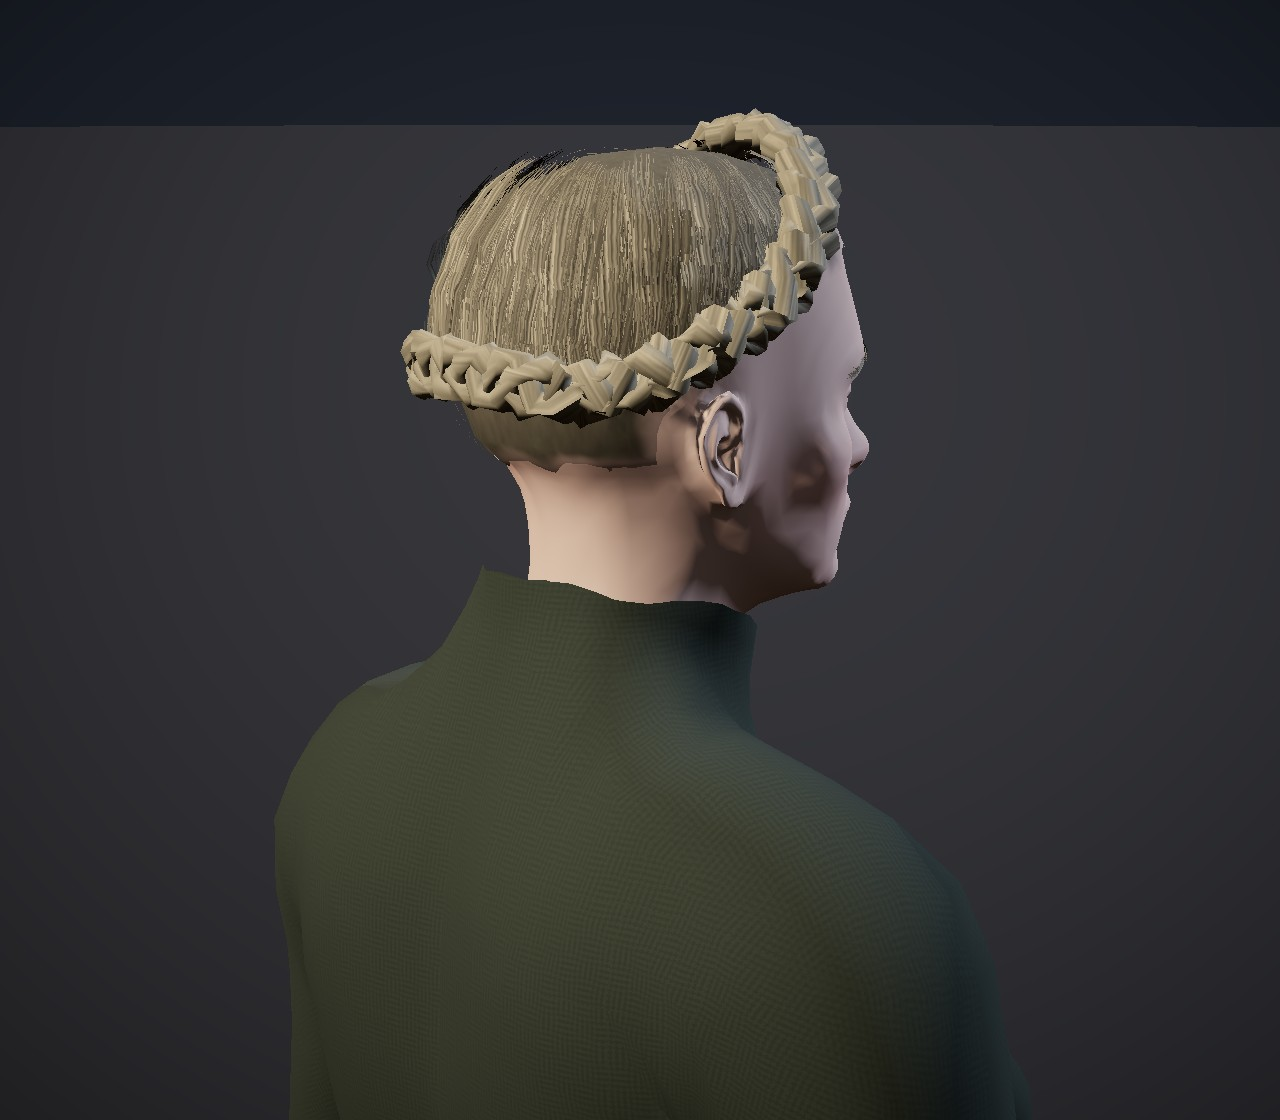
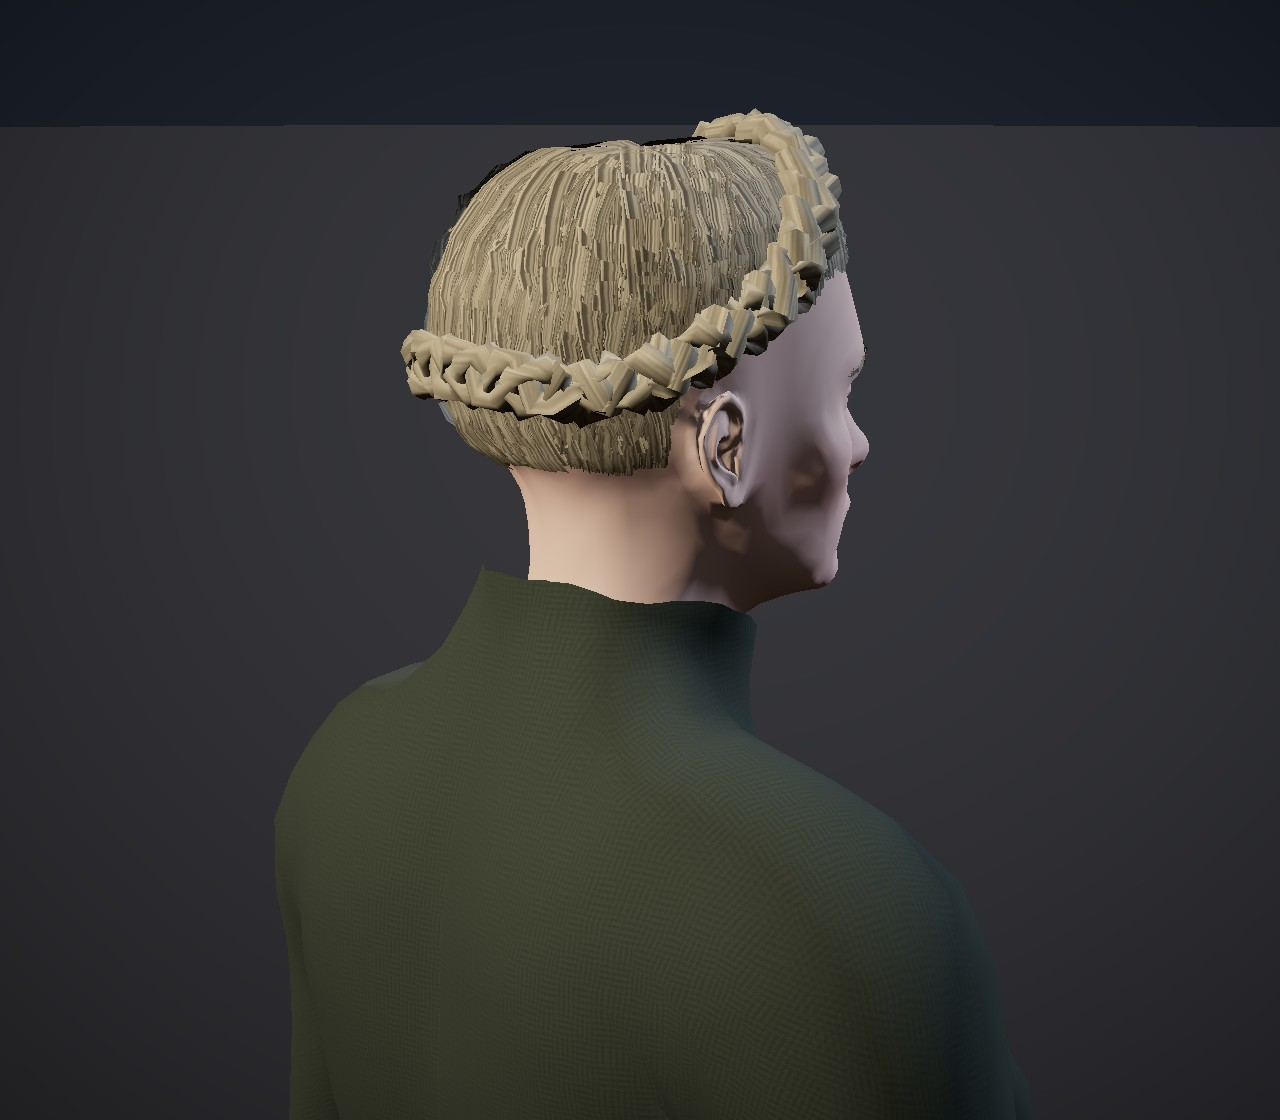
Bodies: Session 1494 — the crown braid's strands drawn at the hair texture's opaque end, so it sits on hair, not bare skin; the builder check runs again (statureOf's index)
Claude-Session: https://claude.ai/code/session_019eFMMn8uQVvmiJFF53RRo8

Changed region(s): [[0.3125, 0.125, 0.625, 0.3438], [0.3438, 0.3438, 0.5312, 0.4375], [0.625, 0.2188, 0.6875, 0.25]]

diff --git a/vendor/people.builder.js b/vendor/people.builder.js
@@ -1082,7 +1082,11 @@ function buildHair(P, G, heads, scalpTris, headB, rnd, checks = true) {
     if (r0.z > .04) { if (eF < .5) { edgeN++; edgeW += fine; } else if (eF >= 1) { backN++; backW += fine; } }
     if (r0.z > -.01 && r0.z < .04 && Math.abs(r0.x) > .05) { if (eD < .0075) { tN++; tW += fine; } else if (eD >= .015) { tbN++; tbW += fine; } }
     if (crown && q.distanceTo(g.p) > off + .008) crownMiss++;
-    strands.push({ pts, ns, w: (shv ? .004 : short ? .008 : free ? .008 : crown ? .015 : .011) * (.8 + .4 * rnd()) * fine, tip: free ? .85 : .5, v0: 0, v1: Math.min(1, pts.length * step / (g ? .35 : myL)) });
+    // (Session 1494: a crown's strand ends at the ring at the strand texture's opaque end, v 1, and runs back from there at a braid's .35 m to
+    // the texture; run 0 up, as the braids' are, its 2 to 10 cm took only the texture's faded foot, under the alpha test, so the hair round
+    // the ring was all but bare skin and the braid stood on it as a hoop. A root by the hairline, finer, starts lower in the fade, so the
+    // short strands there thin out onto the brow and do not stop on one hard line)
+    strands.push({ pts, ns, w: (shv ? .004 : short ? .008 : free ? .008 : crown ? .015 : .011) * (.8 + .4 * rnd()) * fine, tip: free ? .85 : .5, ...crown ? { v0: Math.max(0, Math.min(1 - pts.length * step / .35, .2 + .65 * (fine - .35) / .65)), v1: 1 } : { v0: 0, v1: Math.min(1, pts.length * step / (g ? .35 : myL)) } });
   }
   // the checks' numbers: strand points under the skin, and strand points lying on the face (by the rest place of the skin under them)
   // and Session 877's: how high the roots sit on the skin, and how high the hair stands over the crown

diff --git a/docs/prototypes/levelup/people.js b/docs/prototypes/levelup/people.js
@@ -783,7 +783,11 @@ function buildHair(P, G, heads, scalpTris, headB, rnd, checks = true) {
     if (r0.z > .04) { if (eF < .5) { edgeN++; edgeW += fine; } else if (eF >= 1) { backN++; backW += fine; } }
     if (r0.z > -.01 && r0.z < .04 && Math.abs(r0.x) > .05) { if (eD < .0075) { tN++; tW += fine; } else if (eD >= .015) { tbN++; tbW += fine; } }
     if (crown && q.distanceTo(g.p) > off + .008) crownMiss++;
-    strands.push({ pts, ns, w: (shv ? .004 : short ? .008 : free ? .008 : crown ? .015 : .011) * (.8 + .4 * rnd()) * fine, tip: free ? .85 : .5, v0: 0, v1: Math.min(1, pts.length * step / (g ? .35 : myL)) });
+    // (Session 1494: a crown's strand ends at the ring at the strand texture's opaque end, v 1, and runs back from there at a braid's .35 m to
+    // the texture; run 0 up, as the braids' are, its 2 to 10 cm took only the texture's faded foot, under the alpha test, so the hair round
+    // the ring was all but bare skin and the braid stood on it as a hoop. A root by the hairline, finer, starts lower in the fade, so the
+    // short strands there thin out onto the brow and do not stop on one hard line)
+    strands.push({ pts, ns, w: (shv ? .004 : short ? .008 : free ? .008 : crown ? .015 : .011) * (.8 + .4 * rnd()) * fine, tip: free ? .85 : .5, ...crown ? { v0: Math.max(0, Math.min(1 - pts.length * step / .35, .2 + .65 * (fine - .35) / .65)), v1: 1 } : { v0: 0, v1: Math.min(1, pts.length * step / (g ? .35 : myL)) } });
   }
   // the checks' numbers: strand points under the skin, and strand points lying on the face (by the rest place of the skin under them)
   // and Session 877's: how high the roots sit on the skin, and how high the hair stands over the crown

diff --git a/docs/backlog.md b/docs/backlog.md
@@ -501,7 +501,7 @@ Michael wants to hear proposals from the team before anything is built. Each pro
 Michael marked all 96 images of the intake on the review page: 63 KEEP and 33 NO (his last two MAYBEs settled in chat: OG-015 dropped, OG-094 kept with Tine redone as fire). Every item below comes from a kept image and cites it; the image's row in `docs/art/catalogue.csv` (and its thumbnail in `docs/art/thumbs/`) has the detail, the conflicts and the names. The images are proposals: the canon wins on politics and bodies, invented names fill gaps (decision of 12 Oct, item 3), and the world is painterly while the gates are dark (item 1). The thirteen questions the images raised were answered the same day (`decisions.md`, *The concept art's open questions*; Michael took every recommendation), and the items below carry the answers. The role after each title is who builds it. **The second round** (Michael's *Concept Art Session 2*, OG-097 to OG-112, his OG-U2-001 to 016): all sixteen kept on the review page on 12 Oct, written back to the catalogue in Session 827, and folded into the items below, each citing its image; L9 is new. His one note, on the Gatelands' and the Mark's maps (OG-101, OG-102): “Keep the shape of the island and the geography / regions. Anything that conflicts with Canon we can replace or repurpose.” **The third and final round** (*Concept Art Session 3*, OG-113 to OG-147, his OG-F001 to F035): catalogued and marked on 13 Oct, 34 kept and one dropped (P10a, OG-146, so P10b leads the art direction), written back in Session 828. Seven he kept with one note (OG-118, OG-120, OG-131, OG-132, OG-134, OG-136, OG-142): “Just keep the ideas that were flagged as worth keeping, nothing that conflicts directly.” So for those seven, and as the rule for the whole round, an item below takes only what the catalogue row's notes do not flag as a conflict with the canon or with a design he has chosen. L9 grows; L10 to L12 are new.
 
 ### L1. Peoples and dress
-- **The Markmen: Nord, hard Scandinavian** (look builder; OG-025). Michael: "This is closer to the Nord / hardcore Scandinavian Viking look I was after" (over OG-002, rejected). Fur cloaks on round iron clasps, woven red-and-blue cuff bands, hold guards with spear and round shield; the longhall (central fire, long table) as an interior kit; a timber town on a frozen lake with a pier. **The crown braid and the plait over the shoulder, in the builder, Session 1443** (bodies builder; Michael's A on #272; `people.js` styles `crown` and `plait`, `builder-crown-*.jpg`, `builder-plait-*.jpg`): rolled for Markwomen (plait 3, crown 2 in 13) and Gatelands women (plait 1.5 in 11.5). The plait rides the chest below the neck, Session 1448 (a turn of the head moved it 10.5 cm on the breast; now 0), and every braid and tail down the back, Session 1449 (11 to 13 cm; now 0). **In the game's creator and the barber's chair, Session 1444** (`LOOK_STYLES`, `LOOK_HB_STYLE`; the new look only). **Shaved sides and a braid from the crown, in the builder, Session 1446** (#272's "a shaved side"; `people.js` style `shaved`, `builder-shaved-*.jpg`): rolled for Markmen men (3 in 12); ~~the creator's row~~ — done, Session 1447 (*Shaved sides*, the new look only).
+- **The Markmen: Nord, hard Scandinavian** (look builder; OG-025). Michael: "This is closer to the Nord / hardcore Scandinavian Viking look I was after" (over OG-002, rejected). Fur cloaks on round iron clasps, woven red-and-blue cuff bands, hold guards with spear and round shield; the longhall (central fire, long table) as an interior kit; a timber town on a frozen lake with a pier. **The crown braid and the plait over the shoulder, in the builder, Session 1443** (bodies builder; Michael's A on #272; `people.js` styles `crown` and `plait`, `builder-crown-*.jpg`, `builder-plait-*.jpg`): rolled for Markwomen (plait 3, crown 2 in 13) and Gatelands women (plait 1.5 in 11.5). ~~The crown stands off the skull like a hoop~~ (the critic, 27 Oct) — done, Session 1494 (its short strands drew only the hair texture's faded foot, so the scalp round the ring was bare; `builder-crown-*.jpg`, `-before.jpg`). The plait rides the chest below the neck, Session 1448 (a turn of the head moved it 10.5 cm on the breast; now 0), and every braid and tail down the back, Session 1449 (11 to 13 cm; now 0). **In the game's creator and the barber's chair, Session 1444** (`LOOK_STYLES`, `LOOK_HB_STYLE`; the new look only). **Shaved sides and a braid from the crown, in the builder, Session 1446** (#272's "a shaved side"; `people.js` style `shaved`, `builder-shaved-*.jpg`): rolled for Markmen men (3 in 12); ~~the creator's row~~ — done, Session 1447 (*Shaved sides*, the new look only).
 - **Gatelanders' dress** (look builder; OG-048, OG-059): hooded wool cloaks in moss and madder pinned with a round brooch, short shoulder capes, leg wraps, headscarves, baskets; Crown guards in a crimson-and-gold tabard and kettle helm. Country folk carry more green, undyed and blue than the boards show. **The leg wraps, in the builder, Session 1024** (bodies builder; `people.js` `legWraps`, `builder-legwraps-*.jpg`): a wool band wound from the ankle to under the knee over the trousers, 5.6 turns climbing the shin, each lying over the one below, drawn in the shader on a shell 8 mm over the trousers, two leather thongs crossed at the top, its foot in under a boot cut down to the ankle; 6 of 13 Gatelander men roll them; owed: the game (after F4). **The headscarves, in the builder, Session 1029** (bodies builder; `people.js` `D.scarf`, `scarfPrint`, `builder-scarf-*.jpg`): the head-wrap tied as a kerchief, its fold 3.5 cm over the brows, over the ears' tops, knotted at the nape over its third corner, which hangs 22 cm down the back; block-printed sprigs in the shader, a red border on half; nothing of the head or hair through it; 5 of 27 Gatelander women roll one (none under a cloak); ~~the folded edge's shadow on dark cloth~~ — done, Session 1131 (the scarf and its point take no shadows; `builder-scarf-moss.jpg`); owed: slack at the temples, and the game (after F4); ~~the baskets~~ — done, Session 1033 (`people.js` `buildBasket`, `D.basket`, `basketCloth`, `builder-basket-*.jpg`: an oval willow market basket 38 by 27 cm hung plumb from the right fist by a bow handle level over its crown, the arm straight and lifted clear, a linen cloth over the load or a heap of apples; 13 of 40 Gatelanders roll one; owed: the game, after F4).
 - **Aurennais dress and skin** (look builder; OG-044, OG-056; with J's Aurenne build): skin tan to deep brown, curly, wavy and braided hair, head-wraps, a sash over one shoulder, sandals, coin and hoop jewellery; Compact guards in blue and white (not Crown red) with a scale cuirass, a round bronze shield and a spear. Drop OG-056's bare-midriff top. ~~**The scale cuirass**~~ — done, Session 1058 (bodies builder; `people.js` `SCALES`, the mail's `scales` flag, `builder-scales-*.jpg`: the mail's two shells in bronze plates 2.4 cm wide in rows 3.3 cm apart, each lying over the row below, short-sleeved and to the top of the thigh, 3 mm thicker than the rings; nothing through it on three Aurennais; owed: ~~leather binding at its edges~~ — done, Session 1068 (`BIND` in `mailMat`: a band of dark leather 1.6 cm wide laid along the surface at the neck, the sleeves and the hem, rolled and stitched, no metal, the hem cut straight; `builder-scales-*.jpg`), and the game, after F4). **The sash over one shoulder, in the builder, Session 989** (bodies builder; `people.js` `buildSash`, `builder-sash-*.jpg`): 9 cm wide with printed borders, from the top of one shoulder to the other hip and round the back, its width laid on the body's surface, in indigo, madder, saffron or olive; 13 of 40 Aurennais roll one; ~~its printed field~~ — done, Session 990 (a row of 72 blocks in the border's colour down its middle); ~~the knot and hanging ends at the hip~~ — done, Session 996 (a bound knot on the front of the hip and two ends of 32 and 25 cm hanging clear of the thigh, the arm swung back behind them; `builder-sash-knot*.jpg`); ~~the head-wraps~~ — done, Session 994 (`buildWrap`: a crown on the helm's fitted dome and five wound turns crossing at the brow and the nape, the hair tucked; 13 of 40 Aurennais roll one; `builder-wrap-*.jpg`); owed: ~~a scarf's tail~~ — done, Session 1018 (`buildWrapTail`: the wrap's end from under its lowest turn behind one ear, 34 cm on a woman and 28 on a man, gathered at the top and opening to 11 cm, laid 6 mm clear of what is on the back, on the chest bone; 3 of 13 Aurennais wraps; `builder-tail-*.jpg`), ~~a taller turban~~ — done, Session 1017 (`turban` on the head-wrap: its dome raised by 0.8 and swelled 15 per cent, five more turns wound up it, 12.6 cm over the brow line where the wrap is 6.6; 4 of 13 Aurennais wraps, mostly the men's; three turns crossed over its crown, Session 1020; `builder-turban-*.jpg`), ~~the sandals~~ — done, Session 1015 (an ankle strap, a strap behind the toes, one down the instep and one up the heel, cut in the shader on a shell off the bare foot, on a 1.4 cm sole carried by the foot's bone; 23 of 40 Aurennais; `builder-sandals-*.jpg`), ~~the hoops~~ — done, Session 995 (`buildEarrings`: a ring through each lobe, gold or bronze, 17 of 40 Aurennais; `builder-earrings-*.jpg`), ~~the coin necklace~~ — done, Session 1003 (`buildNecklace`: a chain laid round the neck's base over whatever is worn there, nine coins on a woman and seven on a man hung on rings and lying on the chest, carried by the chest bone; 5 of 40 Aurennais; `builder-necklace-*.jpg`), ~~coins hanging from the belt~~ — done, Session 1004 (`buildBeltCoins`: OG-056's tooled belt with hanging coins, a row of 1.5 cm coins on rings from the belt's lower edge across the front, plumb, none where a sleeve hangs over; `builder-beltcoins-*.jpg`), the coins on the head-wrap's edge (not in OG-056's catalogue row: to be confirmed from the full image), ~~the sash belt~~ — done, Session 1010 (OG-056's wide sash belts in rust red and indigo: a band of cloth 11 to 12 cm deep wound round the waist over the tunic, which is taken in under its whole width, folds drawn in the shader, a leather belt and its coins worn over it; never with a tabard, an apron, mail or a robe; 16 of 40 Aurennais; `builder-sashbelt-*.jpg`; ~~a shoulder sash's end tucked under it~~ — done, Session 1019 (the band passes under the sash belt and any leather belt over it, drawn in to 1.5 mm inside the belt, and one end of 26 cm hangs out from under the belt's lower edge in front of the hip; `builder-sashtuck-*.jpg`)).
 - **The Old Blood's look** (look builder; OG-066): keep the canon body (short, slight, grey-pale, black hair) and take the dress: dark asymmetric layers over undyed linen, dot embroidery, a stone-and-iron amulet; bone, ash, slate, oxblood, dusk violet; OG-066's eye strip for the Cold's greying eyes. The marks are pale raised lines under the skin, not ink, and they spread with the Cold (Michael's 2 B; canon §3.1). **The stone-and-iron amulet and the belt's charms, in the builder, Session 1042** (bodies builder; `people.js` `buildBeltCharms`, `D.amulet`, `D.charms`, `builder-charms-*.jpg`): a round stone 4.4 cm across in slate, ash or dusk grey-violet, bound in iron (rim, a strap down its face, a boss, a bail), hung 4.5 cm under the belt's lower edge on the left hip (three in ten on the right) on a leather thong; beside it a boar's tooth bound at the root, a small iron ring and an oxblood stone bead, each on its own thong lying over the cloth; 23 of 40 Old Blood roll the amulet and 21 the charms; owed: the game (after F4); ~~the dot embroidery's laying~~ — done, Session 1142 (Michael's A on #432, asked in Session 1125 for the critic's "oxblood dots on cream read as spatter": powdered by default, every colour kept, `builder-dots-powder-*.jpg`; the drifts kept for a genome that asks for `'drift'`); ~~the dark asymmetric layers and the single shoulder wrap~~ — done, Session 1051 (`buildSash(…, { wrap: true })`, `D.shoulderWrap`, `builder-swrap-*.jpg`: the sash's loop built wide in plain dark wool, 17 cm over the shoulder, 30 over the chest and back, 13 at the hip, five folds laid outward, 11,520 tris; hair under it cut, so it goes in under; the amulet moves to the shoulder's side; 7 of 60 Old Blood roll it; whether OG-066 also means a second, cut-away over-layer wants its full image); ~~the marks under the skin~~ — done, Session 1052 (`markSkin` in the skin's shader, `G.marks` the Cold, `builder-marks-*.jpg`: pale raised branching lines at both wrists, the backs of the hands and the shoulder blades, carried up the arm to the cheek as the Cold rises from 0 to 1; 95 of 120 Old Blood marked, 15 carrying the Cold; ~~the eye strip for the Cold's greying eyes~~ — done, Session 1053 (the same `cold` takes the eyes toward an ice grey and deepens the pallor, on `makePerson`'s copy only; `builder-cold-face0.jpg`, `-face1.jpg`)); ~~the dot embroidery~~ — done, Session 1043 (`DOTS` in `clothMat`, `D.dots`, `builder-dots-*.jpg`: knots of thread 2 to 4 mm across scattered in drifts over the tunic, and over a skirt of the tunic's own cloth; oxblood, slate or dusk violet on undyed linen, bone on a dark tunic; 47 of 120 Old Blood roll it).

diff --git a/docs/devlog/1494.md b/docs/devlog/1494.md
@@ -1,0 +1,38 @@
+## v80 — Session 1494 — The crown braid sits on hair, not on skin (the critic's hoop)
+The critic's turn of 27 October (build s959) found the crown braid of Session 1443 standing off the skull: "a ring standing off the skull
+at the front and on top, with daylight between the braid and the hair … a halo or a hoop, not a braid pinned round", and offered S1443's
+one number, the ring's 1.05 rad at the front, as the fix. The pictures were rebuilt here before anything was changed, and the ring was not
+the fault: it lies 4 mm off the skin where it was laid. The fault was the hair round it. In the front picture the scalp from the hairline
+to the ring was bare, and so were the temples and the band over the ears below it: the braid stood on bare skin, so it read as a hoop.
+
+**The cause.** A strand card takes the hair texture by `v`, and the texture is opaque at `v` 1 and fades out toward `v` 0 (Session 1154's
+note on the tail). Every gathered style runs a strand's `v` from 0 at its root up to its length over 0.35 m, which suits a braid's or a
+tail's strands, 20–35 cm long: the root fades in and the rest is opaque. A crown's strands only reach the ring, 2–10 cm, so they ran from
+0 to 0.06–0.3 and drew nothing but the texture's faded foot, under the material's alpha test of 0.42. 3,000 strands were built and almost
+none of them were seen.
+
+**The change** (`people.js`, the strand's `v` in `buildHair`, the crown alone). A crown's strand now runs to `v` 1 at the
+ring, where it goes under the braid, and back from there at the same 0.35 m to the texture as a braid's, so a 5 cm strand is opaque its
+whole length. A root by the hairline (the strands Session 875 already makes finer there, `fine` 0.35 at the edge) starts lower in the fade,
+down to 0.2, so the short strands at the brow thin out instead of stopping on one hard edge; the first try without that left a ragged
+step of full-width cards along the forehead. Nothing else moves: the same strands, the same triangles (22.0k in the cards on S1443's
+woman), the same ring. The ring's 1.05 rad is left as it is: with hair under it, it sits on the head.
+
+**Also: the builder's check ran no more** (`builder.check.mjs`, a red of this lane's). Since Session 1468 `statureOf(G, pre)` takes a
+second argument, and the children's check called it as `C.map(K.statureOf)`, which hands it the array index as `pre`: `1.Y = …` threw in
+`morphY` and the whole check stopped at that page with no result. It is `C.map(G => K.statureOf(G))` now.
+
+`vendor/people.builder.js` is rebuilt from `people.js` (`--pack /nonexistent`); the pack was built fresh by `mh_pack.py` and matches the
+committed pack's SHA (`55e9eee5…9b71`), so `vendor/mh-pack.js` is untouched.
+
+### Verified (headless Chromium)
+- The crown on S1443's women (seeds `styles` and `c1`): ring 65 points, 0 strands short of it, 0 points under the skin of 14.5k and 14.6k,
+  0 on the face, the seam 0 of 92 bare, the same numbers as before the change (it moves only the texture's coordinates).
+- `builder.check.mjs`: RESULT
+- `f4people`: RESULT
+- Pictures: `builder-crown-front/side/back.jpg` from the folder's own shot list, and the same three as they were, `builder-crown-*-before.jpg`.
+
+### Needs eyes
+- The hairline in the crown is the scalp's own, high on the forehead as on every style; with the front hair now swept up into the ring it
+  shows as a smooth band of hair, which is OG-025's look, but it is a broad forehead.
+- The braid's locks still read as a chain of twists up close (S1443's note; the critic's again). That is the next piece of this style.
